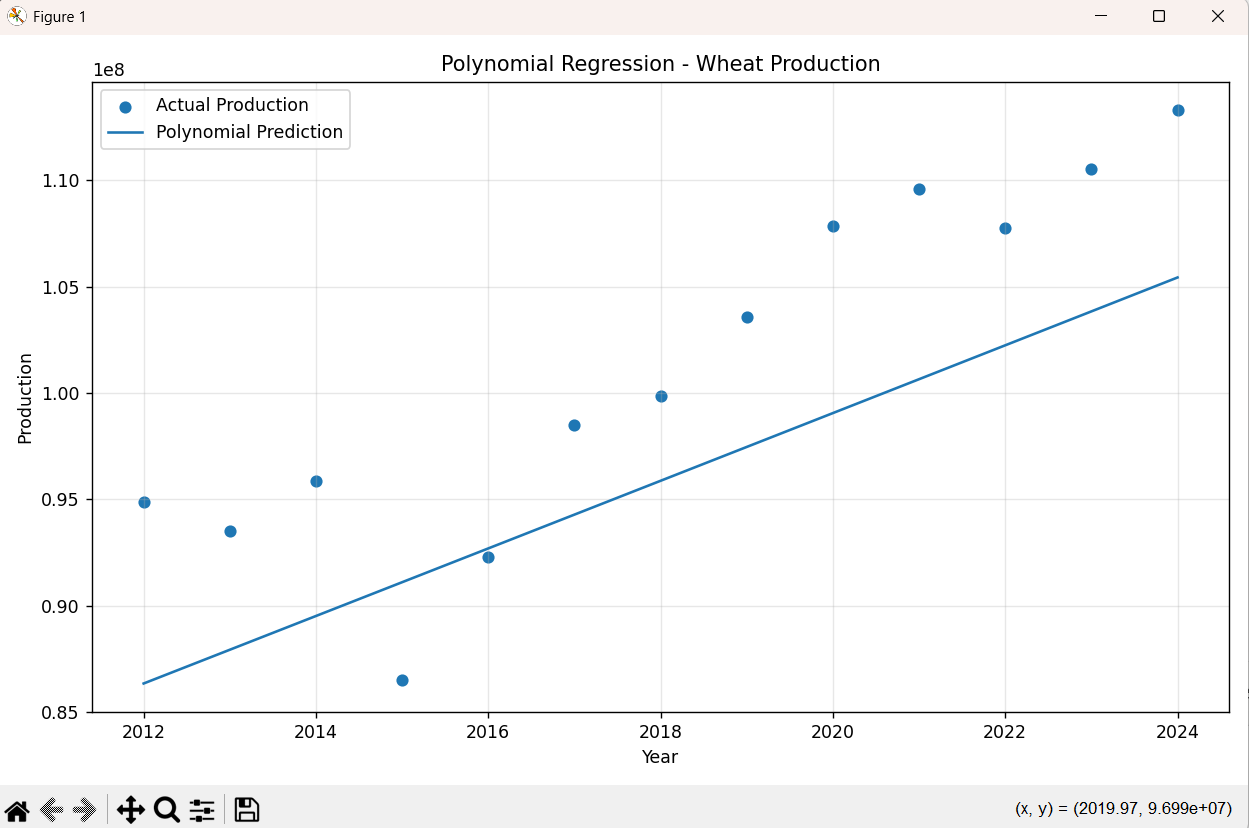
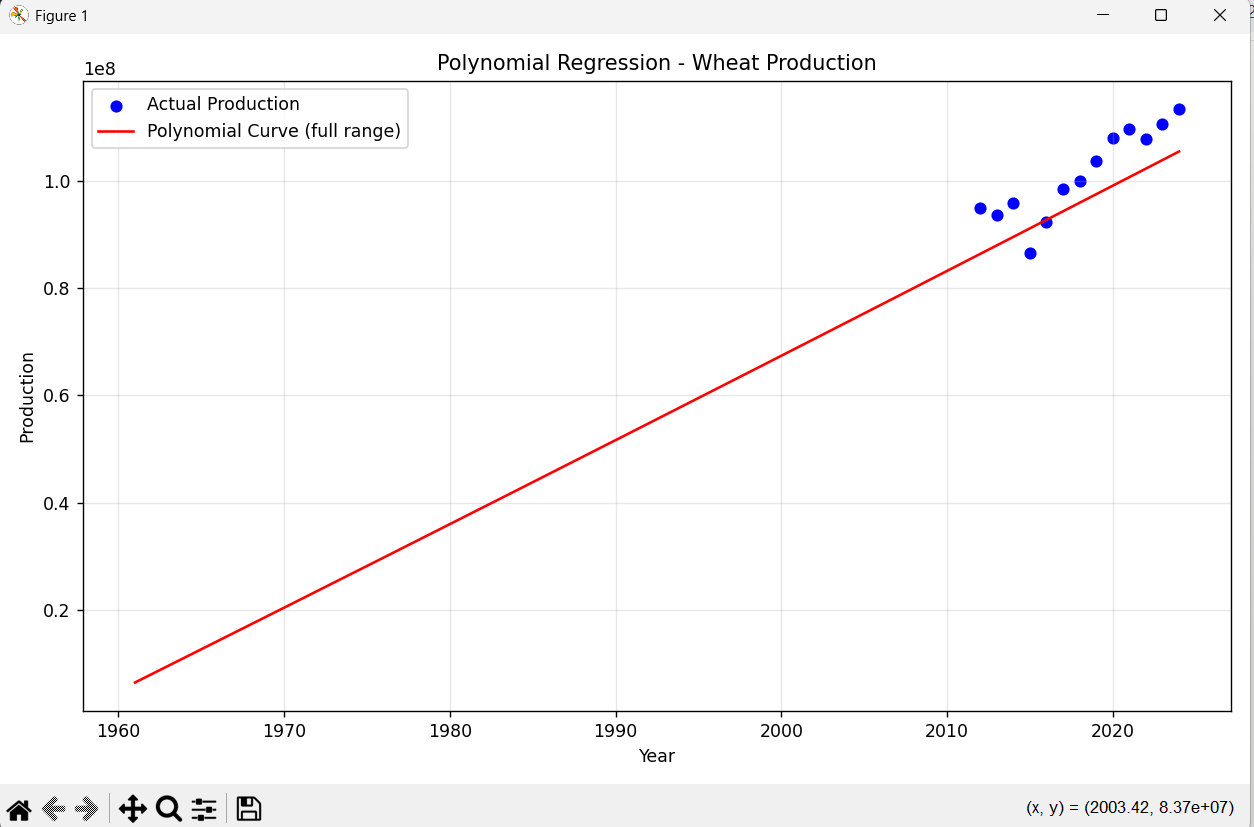
Update FAOSTAT project

diff --git a/comparision.py b/comparision.py
@@ -331,7 +331,7 @@ results = pd.DataFrame({
 
 print()
 print("┌───────────────────────────────────────────────────────────────────────────────┐")
-print("│                         ACTUAL VS PREDICTED                                  │")
+print("│                         ACTUAL VS PREDICTED                                   │")
 print("├────────┬────────────────┬────────────────┬────────────────┬──────────────────┤")
 print(
     f"│ {'YEAR':^6} "

diff --git a/README.md b/README.md
@@ -128,7 +128,8 @@ python comparision.py
 
 ---
 
-## Results & Model Performance
+##  Results & Model Performance
+
 
 | Model | RMSE | MAE | R² |
 |---|---:|---:|---:|
@@ -138,11 +139,13 @@ python comparision.py
 
 **Best performing model:** Polynomial Regression (highest R² = 0.3590, lowest RMSE & MAE among all three models)
 
+---
+
 ### Linear Regression – Actual vs Predicted
 ![graph1](image.png)
 
 ### Polynomial Regression – Actual vs Predicted
-![graph2](image-1.png)
+![graph2](!(image-1.png))
 
 ### Multivariate Regression – Actual vs Predicted
 ![graph3](image-2.png)
